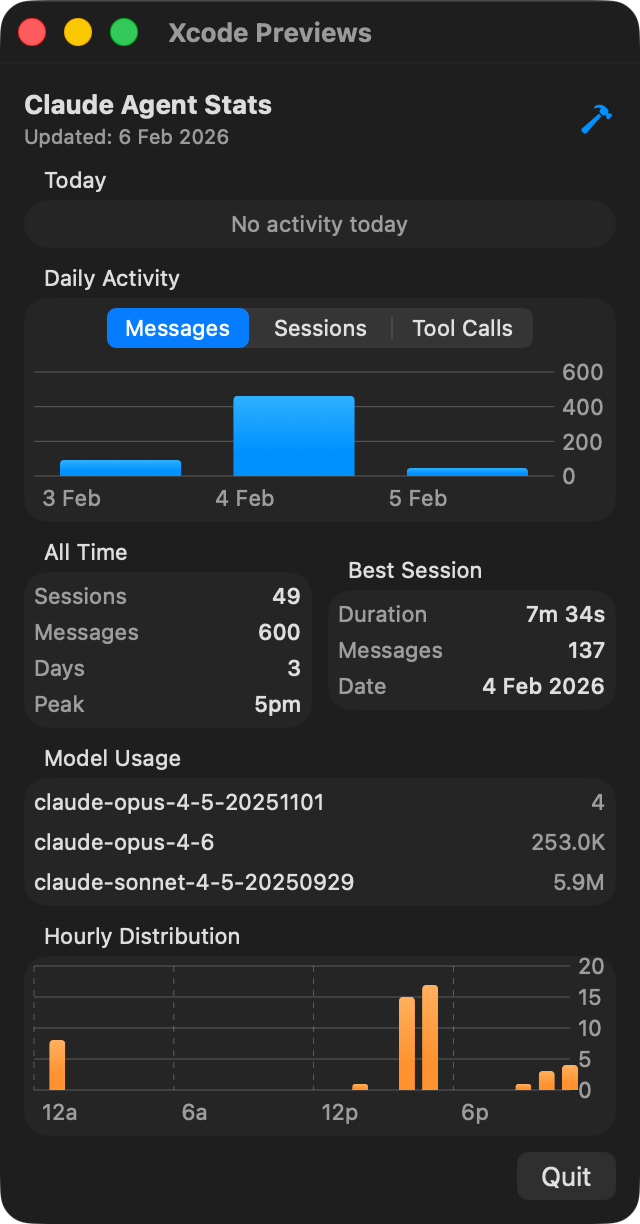
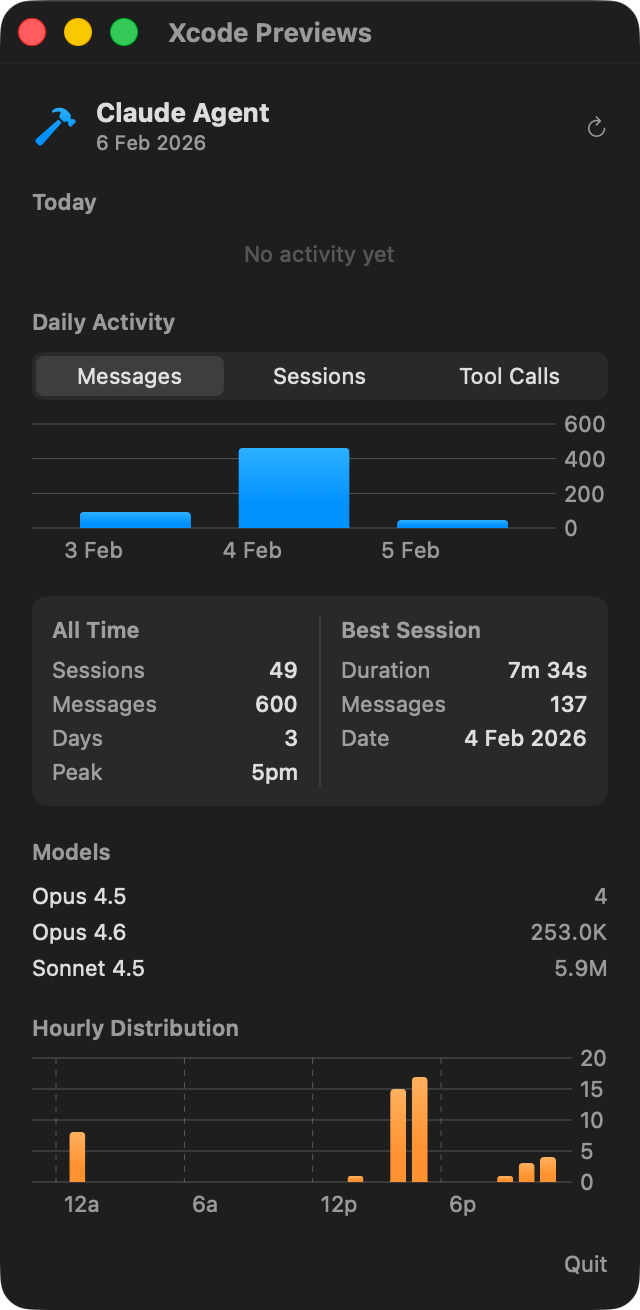
Update charts

diff --git a/XcodeToolsBar/Views/StatsView.swift b/XcodeToolsBar/Views/StatsView.swift
@@ -36,55 +36,63 @@ struct StatsView: View {
     // MARK: - Stats Content
 
     private func statsContent(_ stats: StatsCache) -> some View {
-        VStack(alignment: .leading, spacing: 8) {
+        VStack(alignment: .leading, spacing: 16) {
             headerSection(stats)
             todaySection()
             dailyChartSection()
-            HStack(spacing: 8) {
-                allTimeSection(stats)
-                longestSessionSection(stats)
-            }
+            summarySection(stats)
             modelUsageSection(stats)
             hourlyChartSection()
             footerSection()
         }
-        .padding(12)
+        .padding(16)
     }
 
     // MARK: - Header
 
     private func headerSection(_ stats: StatsCache) -> some View {
-        HStack {
-            VStack(alignment: .leading, spacing: 2) {
-                Text("Claude Agent Stats")
+        HStack(alignment: .center) {
+            Image(systemName: "hammer.fill")
+                .font(.title2)
+                .foregroundStyle(.blue.gradient)
+            VStack(alignment: .leading, spacing: 1) {
+                Text("Claude Agent")
                     .font(.headline)
-                Text("Updated: \(stats.lastComputedDate, format: .dateTime.day().month().year())")
+                Text(stats.lastComputedDate, format: .dateTime.day().month().year())
                     .font(.caption)
                     .foregroundStyle(.secondary)
             }
             Spacer()
-            Image(systemName: "hammer.fill")
-                .foregroundStyle(.blue)
+            Button {
+                viewModel.loadStats()
+            } label: {
+                Image(systemName: "arrow.clockwise")
+                    .font(.caption)
+                    .foregroundStyle(.secondary)
+            }
+            .buttonStyle(.plain)
         }
     }
 
     // MARK: - Today
 
     private func todaySection() -> some View {
-        GroupBox("Today") {
+        VStack(alignment: .leading, spacing: 8) {
+            sectionHeader("Today")
             if let today = viewModel.todayActivity {
-                HStack {
-                    statCell("Messages", value: "\(today.messageCount)")
+                HStack(spacing: 0) {
+                    statPill(value: "\(today.messageCount)", label: "Messages", color: .blue)
                     Spacer()
-                    statCell("Sessions", value: "\(today.sessionCount)")
+                    statPill(value: "\(today.sessionCount)", label: "Sessions", color: .green)
                     Spacer()
-                    statCell("Tool Calls", value: "\(today.toolCallCount)")
+                    statPill(value: "\(today.toolCallCount)", label: "Tools", color: .orange)
                 }
             } else {
-                Text("No activity today")
+                Text("No activity yet")
                     .font(.subheadline)
-                    .foregroundStyle(.secondary)
-                    .frame(maxWidth: .infinity)
+                    .foregroundStyle(.tertiary)
+                    .frame(maxWidth: .infinity, alignment: .center)
+                    .padding(.vertical, 4)
             }
         }
     }
@@ -92,64 +100,74 @@ struct StatsView: View {
     // MARK: - Daily Chart
 
     private func dailyChartSection() -> some View {
-        GroupBox("Daily Activity") {
+        VStack(alignment: .leading, spacing: 8) {
+            sectionHeader("Daily Activity")
             let activities = viewModel.recentDailyActivity
             if activities.isEmpty {
                 Text("No data")
                     .font(.subheadline)
-                    .foregroundStyle(.secondary)
+                    .foregroundStyle(.tertiary)
             } else {
                 DailyActivityChart(activities: activities)
             }
         }
     }
 
-    // MARK: - All Time
+    // MARK: - Summary (All Time + Best Session)
 
-    private func allTimeSection(_ stats: StatsCache) -> some View {
-        GroupBox("All Time") {
-            VStack(spacing: 4) {
-                row("Sessions", value: "\(stats.totalSessions)")
-                row("Messages", value: "\(stats.totalMessages)")
-                if let days = viewModel.daysSinceFirstSession {
-                    row("Days", value: "\(days)")
-                }
-                if let peakHour = viewModel.peakHour {
-                    row("Peak", value: peakHour)
+    private func summarySection(_ stats: StatsCache) -> some View {
+        HStack(alignment: .top, spacing: 0) {
+            VStack(alignment: .leading, spacing: 6) {
+                sectionHeader("All Time")
+                VStack(spacing: 3) {
+                    row("Sessions", value: "\(stats.totalSessions)")
+                    row("Messages", value: "\(stats.totalMessages)")
+                    if let days = viewModel.daysSinceFirstSession {
+                        row("Days", value: "\(days)")
+                    }
+                    if let peakHour = viewModel.peakHour {
+                        row("Peak", value: peakHour)
+                    }
                 }
             }
-        }
-    }
+            .frame(maxWidth: .infinity, alignment: .leading)
 
-    // MARK: - Longest Session
+            Divider()
+                .padding(.horizontal, 10)
 
-    private func longestSessionSection(_ stats: StatsCache) -> some View {
-        GroupBox("Best Session") {
-            VStack(spacing: 4) {
-                if let duration = viewModel.formattedLongestSessionDuration {
-                    row("Duration", value: duration)
-                }
-                row("Messages", value: "\(stats.longestSession.messageCount)")
-                if let date = viewModel.longestSessionDate {
-                    row("Date", value: date)
+            VStack(alignment: .leading, spacing: 6) {
+                sectionHeader("Best Session")
+                VStack(spacing: 3) {
+                    if let duration = viewModel.formattedLongestSessionDuration {
+                        row("Duration", value: duration)
+                    }
+                    row("Messages", value: "\(stats.longestSession.messageCount)")
+                    if let date = viewModel.longestSessionDate {
+                        row("Date", value: date)
+                    }
                 }
             }
+            .frame(maxWidth: .infinity, alignment: .leading)
         }
+        .padding(10)
+        .background(.quaternary.opacity(0.5), in: RoundedRectangle(cornerRadius: 8))
     }
 
     // MARK: - Model Usage
 
     private func modelUsageSection(_ stats: StatsCache) -> some View {
-        GroupBox("Model Usage") {
-            VStack(alignment: .leading, spacing: 6) {
+        VStack(alignment: .leading, spacing: 8) {
+            sectionHeader("Models")
+            VStack(spacing: 4) {
                 ForEach(viewModel.sortedModelNames, id: \.self) { name in
                     if let usage = stats.modelUsage[name] {
+                        let totalTokens = usage.inputTokens + usage.outputTokens + usage.cacheReadInputTokens
                         HStack {
-                            Text(name)
+                            Text(viewModel.shortModelName(name))
                                 .font(.subheadline)
                             Spacer()
-                            Text("\(viewModel.formatTokenCount(usage.inputTokens + usage.outputTokens + usage.cacheReadInputTokens))")
-                                .font(.subheadline)
+                            Text(viewModel.formatTokenCount(totalTokens))
+                                .font(.subheadline.monospacedDigit())
                                 .foregroundStyle(.secondary)
                         }
                     }
@@ -161,12 +179,13 @@ struct StatsView: View {
     // MARK: - Hourly Chart
 
     private func hourlyChartSection() -> some View {
-        GroupBox("Hourly Distribution") {
+        VStack(alignment: .leading, spacing: 8) {
+            sectionHeader("Hourly Distribution")
             let hourCounts = viewModel.sortedHourCounts
             if hourCounts.isEmpty {
                 Text("No data")
                     .font(.subheadline)
-                    .foregroundStyle(.secondary)
+                    .foregroundStyle(.tertiary)
             } else {
                 HourlyDistributionChart(hourCounts: hourCounts)
             }
@@ -181,16 +200,26 @@ struct StatsView: View {
             Button("Quit") {
                 NSApplication.shared.terminate(nil)
             }
+            .buttonStyle(.plain)
+            .font(.subheadline)
+            .foregroundStyle(.secondary)
         }
     }
 
     // MARK: - Helpers
 
-    private func statCell(_ title: String, value: String) -> some View {
+    private func sectionHeader(_ title: String) -> some View {
+        Text(title)
+            .font(.subheadline.weight(.semibold))
+            .foregroundStyle(.secondary)
+    }
+
+    private func statPill(value: String, label: String, color: Color) -> some View {
         VStack(spacing: 2) {
             Text(value)
-                .font(.title2.bold())
-            Text(title)
+                .font(.title2.bold().monospacedDigit())
+                .foregroundStyle(color)
+            Text(label)
                 .font(.caption)
                 .foregroundStyle(.secondary)
         }
@@ -206,9 +235,8 @@ struct StatsView: View {
         }
         .font(.subheadline)
     }
-
 }
+
 #Preview {
     StatsView()
 }
-

diff --git a/XcodeToolsBar/Views/DailyActivityChart.swift b/XcodeToolsBar/Views/DailyActivityChart.swift
@@ -27,14 +27,25 @@ struct DailyActivityChart: View {
 
     var body: some View {
         VStack(spacing: 12) {
-            Picker("Metric", selection: $selectedMetric) {
+            HStack(spacing: 1) {
                 ForEach(ActivityMetric.allCases, id: \.self) { metric in
-                    Text(metric.rawValue).tag(metric)
+                    Button {
+                        withAnimation(.easeInOut(duration: 0.15)) {
+                            selectedMetric = metric
+                        }
+                    } label: {
+                        Text(metric.rawValue)
+                            .font(.subheadline)
+                            .frame(maxWidth: .infinity)
+                            .padding(.vertical, 3)
+                            .background(selectedMetric == metric ? .white.opacity(0.1) : .clear, in: RoundedRectangle(cornerRadius: 4))
+                            .contentShape(Rectangle())
+                    }
+                    .buttonStyle(.plain)
                 }
             }
-            .pickerStyle(.segmented)
-            .labelsHidden()
-            .controlSize(.small)
+            .padding(2)
+            .background(.quaternary.opacity(0.5), in: RoundedRectangle(cornerRadius: 6))
             
             Chart(activities) { activity in
                 BarMark(
@@ -66,6 +77,7 @@ struct DailyActivityChart: View {
                     AxisValueLabel(format: .dateTime.month().day())
                 }
             }
+            .chartXScale(range: .plotDimension(padding: 12))
             .chartXSelection(value: $selectedDate)
             .frame(height: 70)
         }
@@ -91,4 +103,3 @@ struct DailyActivityChart: View {
     ])
     .padding()
 }
-

diff --git a/XcodeToolsBar/ViewModels/StatsViewModel.swift b/XcodeToolsBar/ViewModels/StatsViewModel.swift
@@ -143,6 +143,14 @@ final class StatsViewModel {
 
     // MARK: - Helpers
 
+    func shortModelName(_ name: String) -> String {
+        let parts = name.split(separator: "-")
+        guard parts.count >= 4, parts[0] == "claude" else { return name }
+        let family = parts[1].capitalized
+        let version = "\(parts[2]).\(parts[3])"
+        return "\(family) \(version)"
+    }
+
     func formatTokenCount(_ count: Int) -> String {
         if count >= 1_000_000 {
             return String(format: "%.1fM", Double(count) / 1_000_000)

diff --git a/XcodeToolsBar/Views/HourlyDistributionChart.swift b/XcodeToolsBar/Views/HourlyDistributionChart.swift
@@ -41,7 +41,7 @@ struct HourlyDistributionChart: View {
                 }
             }
         }
-        .chartXScale(domain: 0...23)
+        .chartXScale(domain: 0...23, range: .plotDimension(padding: 12))
         .chartXSelection(value: $selectedHour)
         .frame(height: 80)
     }
